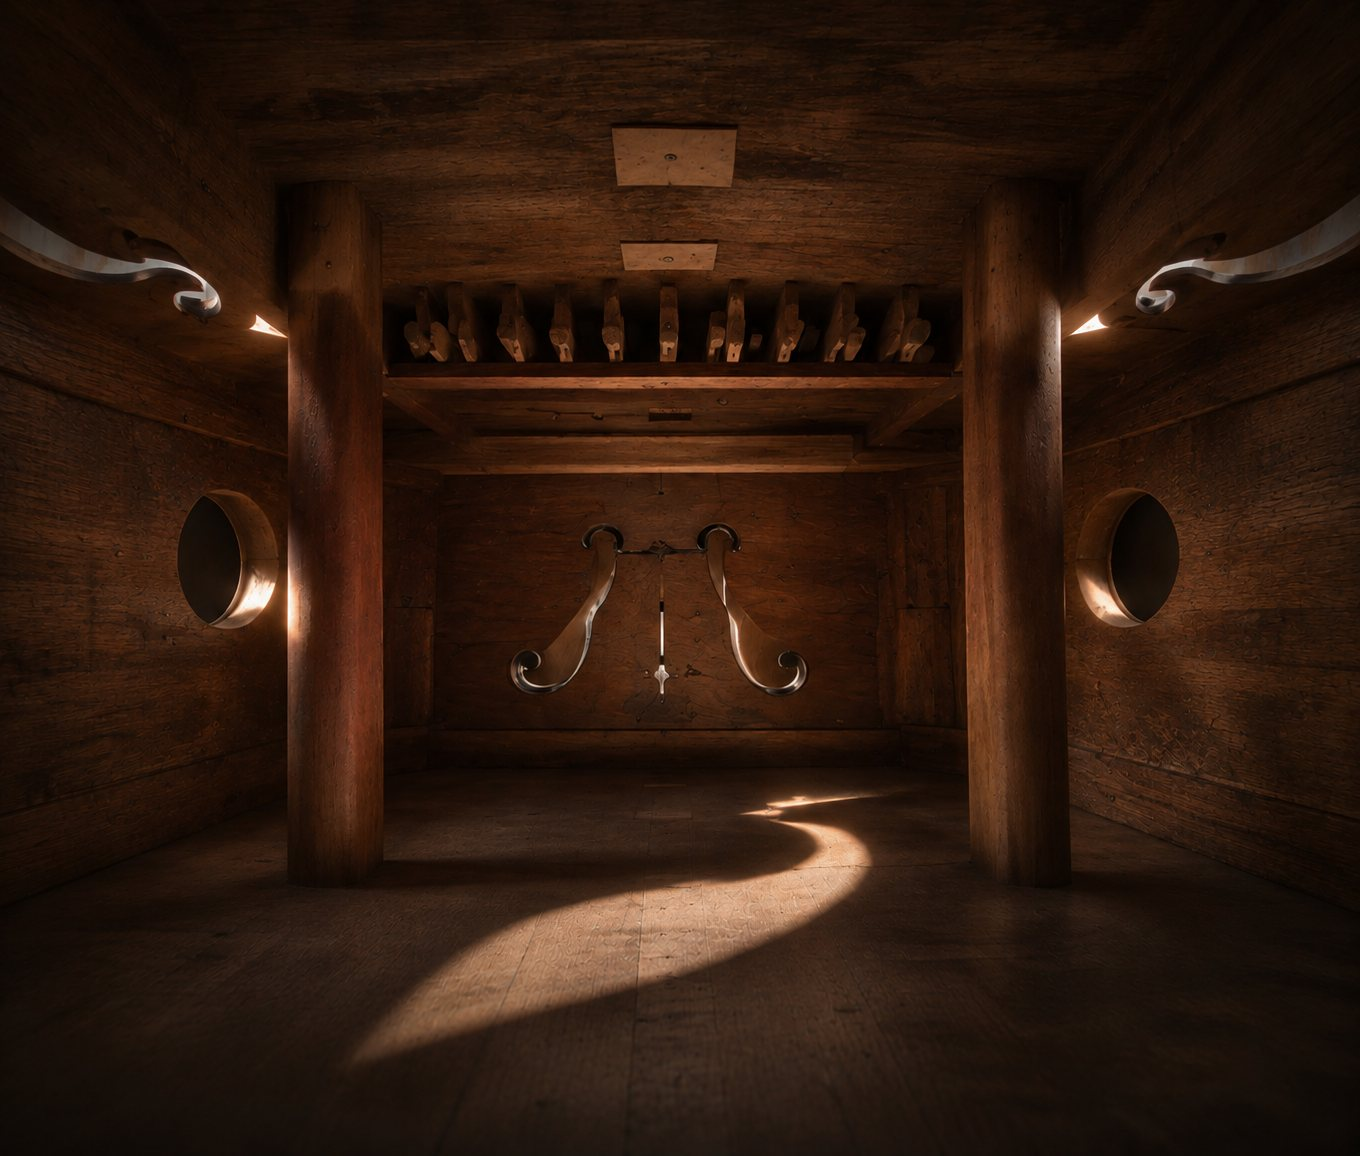
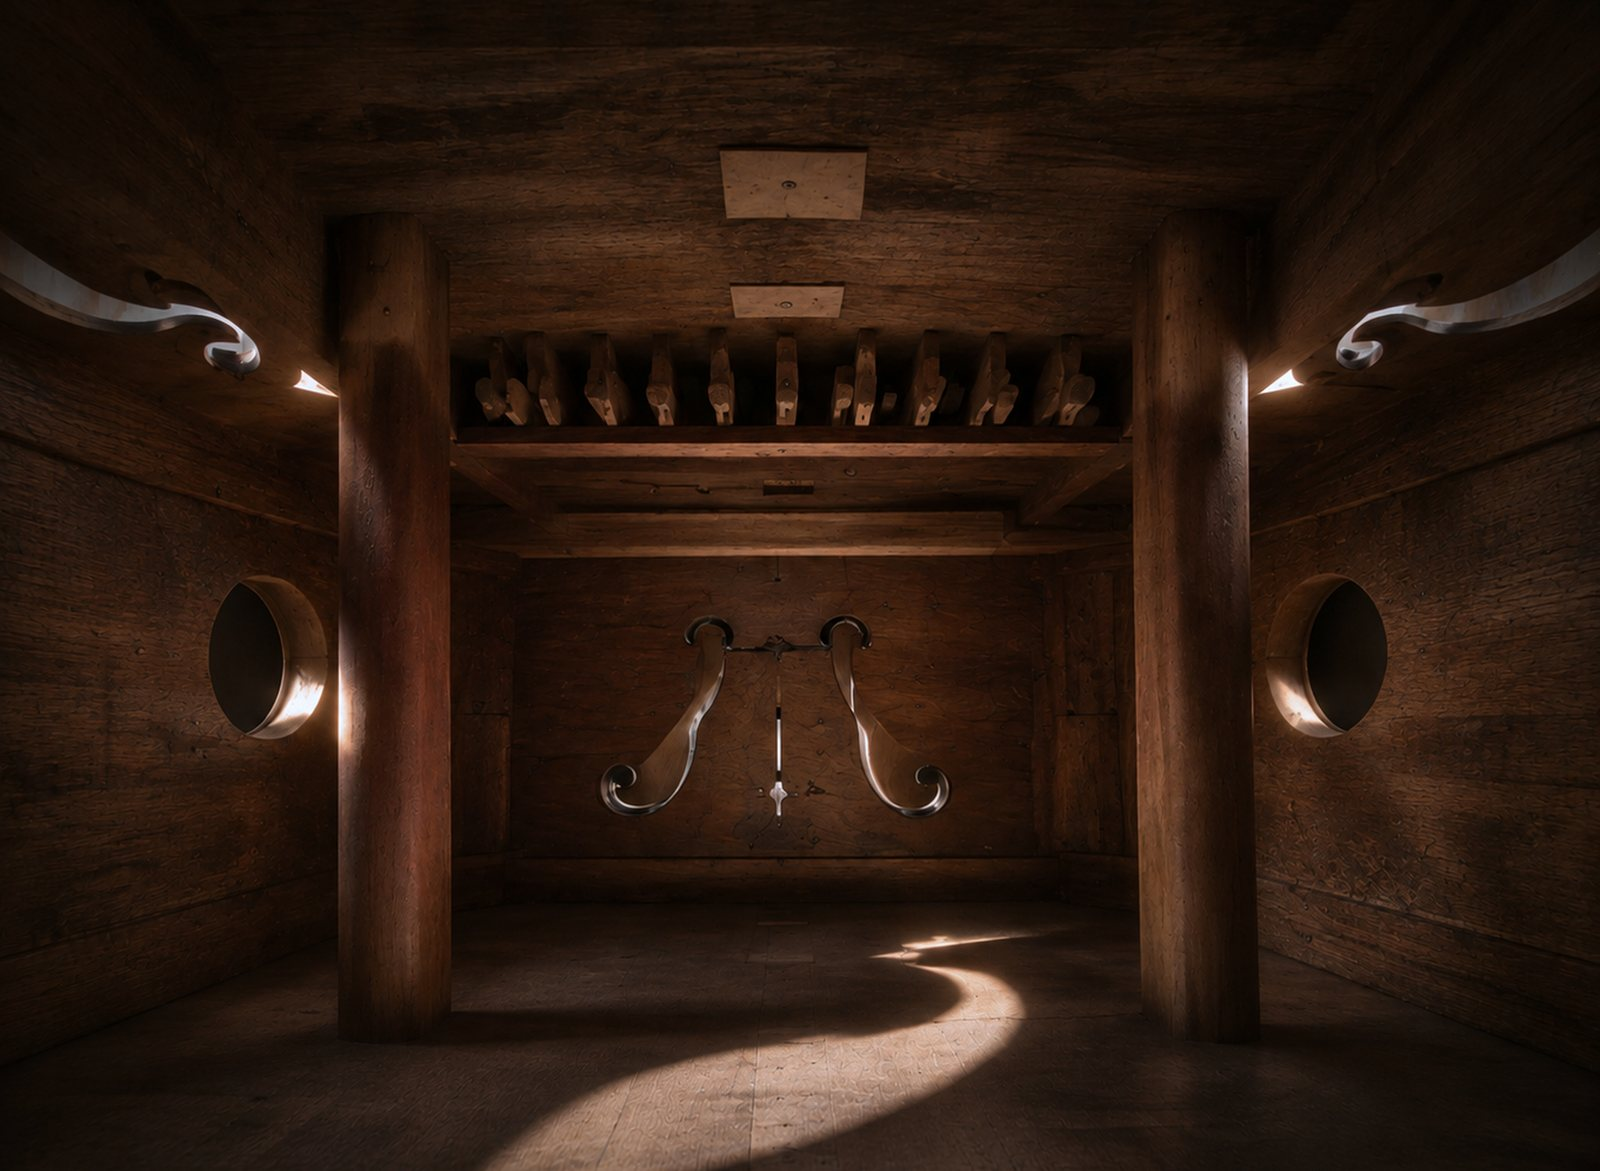
Add files via upload

diff --git a/index.html b/index.html
@@ -275,7 +275,7 @@ footer { padding: 24px 0 40px; text-align: center; font: 400 0.78rem/1 var(--dis
           <p>One man band since 2017 between European and Eastern cultures and music, particularly from the Middle Ages and the Renaissance.</p>
           <p>Based in Berlin, Germany.</p>
         </div>
-        <div class="about-img"><img src="img/about.jpg" alt="" width="1360" height="1156" loading="lazy"></div>
+        <div class="about-img"><img src="img/about.jpg" alt="" width="1600" height="1172" loading="lazy"></div>
       </div>
 
       <div class="listen" id="listen">
